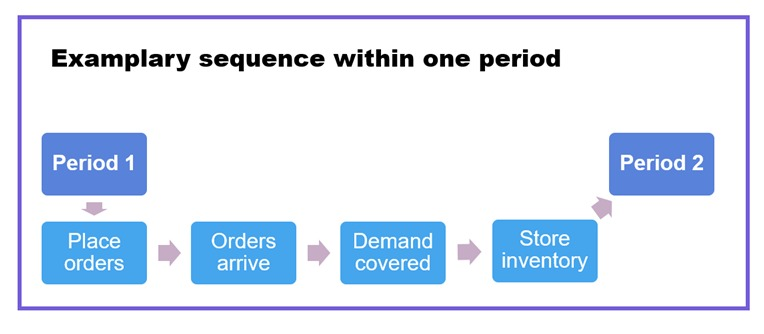
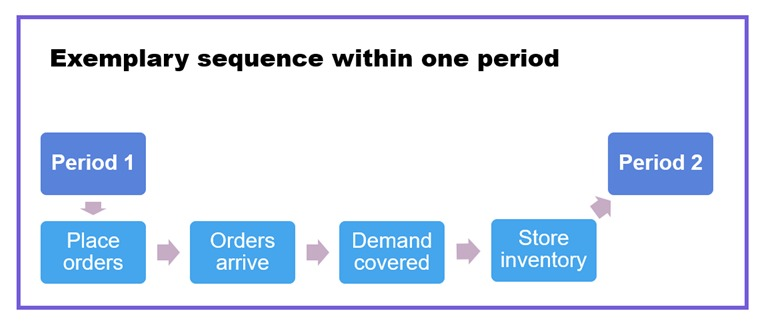
pic periods

Changed region(s): [[0.0, 0.0308, 0.9935, 0.9538], [0.0602, 0.1231, 0.7526, 0.2154], [0.0602, 0.4615, 0.1806, 0.5231]]

diff --git a/templates/round1.html b/templates/round1.html
@@ -52,6 +52,9 @@
 										<p>
 											<li>Your orders will arrive at the end of the order period.</li>
 											<li>The demand of each period will be covered from your inventory as far as possible.</li>
+											<div div class="container pt-3 ps-5">
+												<img src="/static/images/periods.jpeg" width="600px">
+											</div>
 										</p>
 										<hr class="my-3">
 										<h4 class="my-3 h3 text-primary">Main task: Placing orders to fulfil demand (100% demand forecast accuracy) and to maximize your profit</h4>

diff --git a/templates/round1_feedback.html b/templates/round1_feedback.html
@@ -51,6 +51,9 @@
 										<p>
 											<li>Your orders will arrive at the end of the order period.</li>
 											<li>The demand of each period will be covered from your inventory as far as possible.</li>
+											<div div class="container pt-3 ps-5">
+												<img src="/static/images/periods.jpeg" width="600px">
+											</div>
 										</p>
 										<hr class="my-3">
 										<h4 class="my-3 h3 text-primary">Main task: Placing orders to fulfil demand (100% demand forecast accuracy) and to maximize your profit</h4>

diff --git a/templates/round2.html b/templates/round2.html
@@ -52,6 +52,9 @@
 										<p>
 											<li>Your orders will arrive at the end of the order period.</li>
 											<li>The demand of each period will be covered from your inventory as far as possible.</li>
+											<div div class="container pt-3 ps-5">
+												<img src="/static/images/periods.jpeg" width="600px">
+											</div>
 										</p>
 										<hr class="my-3">
 										<h4 class="my-3 h3 text-primary">Main task: Placing orders to fulfil demand (100% demand forecast accuracy) and to maximize your profit</h4>

diff --git a/templates/round2_feedback.html b/templates/round2_feedback.html
@@ -52,6 +52,9 @@
 										<p>
 											<li>Your orders will arrive at the end of the order period.</li>
 											<li>The demand of each period will be covered from your inventory as far as possible.</li>
+											<div div class="container pt-3 ps-5">
+												<img src="/static/images/periods.jpeg" width="600px">
+											</div>
 										</p>
 										<hr class="my-3">
 										<h4 class="my-3 h3 text-primary">Main task: Placing orders to fulfil demand (100% demand forecast accuracy) and to maximize your profit</h4>

diff --git a/templates/round3.html b/templates/round3.html
@@ -53,6 +53,9 @@
 										<p>
 											<li>Your orders will arrive at the end of the order period.</li>
 											<li>The demand of each period will be covered from your inventory as far as possible.</li>
+											<div div class="container pt-3 ps-5">
+												<img src="/static/images/periods.jpeg" width="600px">
+											</div>
 										</p>
 										<hr class="my-3">
 										<h4 class="my-3 h3 text-primary">Main task: Placing orders to fulfil demand (100% demand forecast accuracy) and to maximize your profit</h4>

diff --git a/templates/round3_feedback.html b/templates/round3_feedback.html
@@ -53,6 +53,9 @@
 										<p>
 											<li>Your orders will arrive at the end of the order period.</li>
 											<li>The demand of each period will be covered from your inventory as far as possible.</li>
+											<div div class="container pt-3 ps-5">
+												<img src="/static/images/periods.jpeg" width="600px">
+											</div>
 										</p>
 										<hr class="my-3">
 										<h4 class="my-3 h3 text-primary">Main task: Placing orders to fulfil demand (100% demand forecast accuracy) and to maximize your profit</h4>

diff --git a/templates/round4.html b/templates/round4.html
@@ -54,6 +54,9 @@
 										<p>
 											<li>Your orders will arrive at the end of the order period.</li>
 											<li>The demand of each period will be covered from your inventory as far as possible.</li>
+											<div div class="container pt-3 ps-5">
+												<img src="/static/images/periods.jpeg" width="600px">
+											</div>
 										</p>
 										<hr class="my-3">
 										<h4 class="my-3 h3 text-primary">Main task: Placing orders to fulfil demand (100% demand forecast accuracy) and to maximize your profit</h4>

diff --git a/templates/round4_feedback.html b/templates/round4_feedback.html
@@ -54,6 +54,9 @@
 										<p>
 											<li>Your orders will arrive at the end of the order period.</li>
 											<li>The demand of each period will be covered from your inventory as far as possible.</li>
+											<div div class="container pt-3 ps-5">
+												<img src="/static/images/periods.jpeg" width="600px">
+											</div>
 										</p>
 										<hr class="my-3">
 										<h4 class="my-3 h3 text-primary">Main task: Placing orders to fulfil demand (100% demand forecast accuracy) and to maximize your profit</h4>

diff --git a/templates/round5.html b/templates/round5.html
@@ -55,6 +55,9 @@
 										<p>
 											<li>Your orders will arrive at the end of the order period.</li>
 											<li>The demand of each period will be covered from your inventory as far as possible.</li>
+											<div div class="container pt-3 ps-5">
+												<img src="/static/images/periods.jpeg" width="600px">
+											</div>
 										</p>
 										<hr class="my-3">
 										<h4 class="my-3 h3 text-primary">Main task: Placing orders to fulfil demand (100% demand forecast accuracy) and to maximize your profit</h4>

diff --git a/templates/round5_feedback.html b/templates/round5_feedback.html
@@ -55,6 +55,9 @@
 										<p>
 											<li>Your orders will arrive at the end of the order period.</li>
 											<li>The demand of each period will be covered from your inventory as far as possible.</li>
+											<div div class="container pt-3 ps-5">
+												<img src="/static/images/periods.jpeg" width="600px">
+											</div>
 										</p>
 										<hr class="my-3">
 										<h4 class="my-3 h3 text-primary">Main task: Placing orders to fulfil demand (100% demand forecast accuracy) and to maximize your profit</h4>

diff --git a/templates/round6.html b/templates/round6.html
@@ -56,6 +56,9 @@
 										<p>
 											<li>Your orders will arrive at the end of the order period.</li>
 											<li>The demand of each period will be covered from your inventory as far as possible.</li>
+											<div div class="container pt-3 ps-5">
+												<img src="/static/images/periods.jpeg" width="600px">
+											</div>
 										</p>
 										<hr class="my-3">
 										<h4 class="my-3 h3 text-primary">Main task: Placing orders to fulfil demand (100% demand forecast accuracy) and to maximize your profit</h4>

diff --git a/templates/round6_feedback.html b/templates/round6_feedback.html
@@ -56,6 +56,9 @@
 										<p>
 											<li>Your orders will arrive at the end of the order period.</li>
 											<li>The demand of each period will be covered from your inventory as far as possible.</li>
+											<div div class="container pt-3 ps-5">
+												<img src="/static/images/periods.jpeg" width="600px">
+											</div>
 										</p>
 										<hr class="my-3">
 										<h4 class="my-3 h3 text-primary">Main task: Placing orders to fulfil demand (100% demand forecast accuracy) and to maximize your profit</h4>
